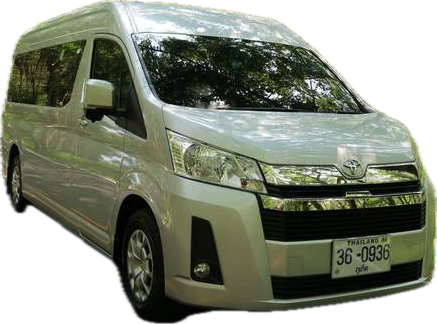
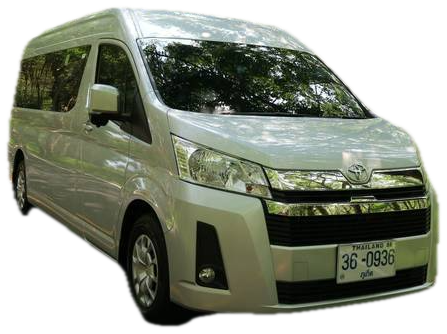
feat(vehicles): VIP10 cut-out category image; cutout tool now erodes edges, crops and downsizes

diff --git a/tools/brand/cutout.swift b/tools/brand/cutout.swift
@@ -1,21 +1,49 @@
 import Foundation
 import Vision
 import CoreImage
+import CoreImage.CIFilterBuiltins
 import AppKit
 
-// ตัดฉากหลังด้วย Vision (foreground instance mask) → PNG โปร่งใส ครอปพอดีตัวรถ
-let args = CommandLine.arguments
-let inURL = URL(fileURLWithPath: args[1]), outURL = URL(fileURLWithPath: args[2])
-guard let ci = CIImage(contentsOf: inURL) else { fputs("cannot read\n", stderr); exit(1) }
+// ตัดฉากหลังด้วย Vision → หด mask ขอบเล็กน้อย (กันขอบดำ/แสงฉากหลังติดมา) → PNG โปร่งใส ครอปพอดี → ย่อไม่เกิน maxW
+// usage: cutout <in> <out.png> [erodeRadius=2] [maxWidth=1000]
+let a = CommandLine.arguments
+let inURL = URL(fileURLWithPath: a[1]), outURL = URL(fileURLWithPath: a[2])
+let erode = a.count > 3 ? Double(a[3]) ?? 2 : 2
+let maxW = a.count > 4 ? Double(a[4]) ?? 1000 : 1000
+guard let ci = CIImage(contentsOf: inURL)?.oriented(.up) else { fputs("cannot read\n", stderr); exit(1) }
 let req = VNGenerateForegroundInstanceMaskRequest()
 let handler = VNImageRequestHandler(ciImage: ci, options: [:])
 try handler.perform([req])
 guard let obs = req.results?.first else { fputs("no foreground found\n", stderr); exit(2) }
-let maskBuf = try obs.generateMaskedImage(ofInstances: obs.allInstances, from: handler, croppedToInstancesExtent: true)
-let out = CIImage(cvPixelBuffer: maskBuf)
+let maskBuf = try obs.generateScaledMaskForImage(forInstances: obs.allInstances, from: handler)
+var mask = CIImage(cvPixelBuffer: maskBuf)
+// scale mask to image size (Vision returns image-sized mask already, but be safe)
+let sx = ci.extent.width / mask.extent.width, sy = ci.extent.height / mask.extent.height
+mask = mask.transformed(by: CGAffineTransform(scaleX: sx, y: sy))
+if erode > 0 {
+  let mn = CIFilter.morphologyMinimum(); mn.inputImage = mask; mn.radius = Float(erode); mask = mn.outputImage!
+  let bl = CIFilter.gaussianBlur(); bl.inputImage = mask; bl.radius = 0.7; mask = bl.outputImage!.cropped(to: ci.extent)
+}
+let blend = CIFilter.blendWithMask()
+blend.inputImage = ci
+blend.backgroundImage = CIImage(color: .clear).cropped(to: ci.extent)
+blend.maskImage = mask
+var out = blend.outputImage!
+// crop to opaque bounds
 let ctx = CIContext()
-guard let cg = ctx.createCGImage(out, from: out.extent) else { exit(3) }
+guard let full = ctx.createCGImage(out, from: ci.extent) else { exit(3) }
+let bmp = NSBitmapImageRep(cgImage: full)
+var minX = full.width, minY = full.height, maxX = 0, maxY = 0
+if let data = bmp.bitmapData {
+  let bpr = bmp.bytesPerRow, spp = bmp.samplesPerPixel
+  for y in 0..<full.height { for x in 0..<full.width { let alpha = data[y * bpr + x * spp + 3]; if alpha > 8 { if x < minX { minX = x }; if x > maxX { maxX = x }; if y < minY { minY = y }; if y > maxY { maxY = y } } } }
+}
+let pad = 6
+let cropRect = CGRect(x: max(0, minX - pad), y: max(0, full.height - 1 - maxY - pad), width: min(full.width, maxX - minX + 1 + pad * 2), height: min(full.height, maxY - minY + 1 + pad * 2))
+out = out.cropped(to: cropRect)
+if cropRect.width > maxW { let s = maxW / cropRect.width; out = out.transformed(by: CGAffineTransform(scaleX: s, y: s)) }
+guard let cg = ctx.createCGImage(out, from: out.extent) else { exit(4) }
 let rep = NSBitmapImageRep(cgImage: cg)
-guard let png = rep.representation(using: .png, properties: [:]) else { exit(4) }
+guard let png = rep.representation(using: .png, properties: [:]) else { exit(5) }
 try png.write(to: outURL)
 print("ok \(cg.width)x\(cg.height)")

diff --git a/lib/config.ts b/lib/config.ts
@@ -95,7 +95,8 @@ export const REVIEWS: { name: string; where: string; text: { th: string; en: str
 
 /** รูปไดคัตประจำหมวด (รูปเดียว ไม่ผูกกับคันใดคันหนึ่ง) — ไม่มี = ใช้ภาพวาด · วางไฟล์ใน public/vehicles/ */
 export const VEHICLE_IMAGE: Partial<Record<VehicleType, { src: string; w: number; h: number }>> = {
-  VAN_VIP8: { src: "/vehicles/vip8-cutout.png", w: 437, h: 324 },
+  VAN_VIP8: { src: "/vehicles/vip8-cutout.png", w: 447, h: 334 },
+  VAN_VIP10: { src: "/vehicles/vip10-cutout.png", w: 1001, h: 876 },
 };
 
 /** รูปบรรยากาศจริง (หน้าแรก "บรรยากาศในรถ") — เพิ่มได้เรื่อย ๆ วางไฟล์ใน public/gallery/ */
